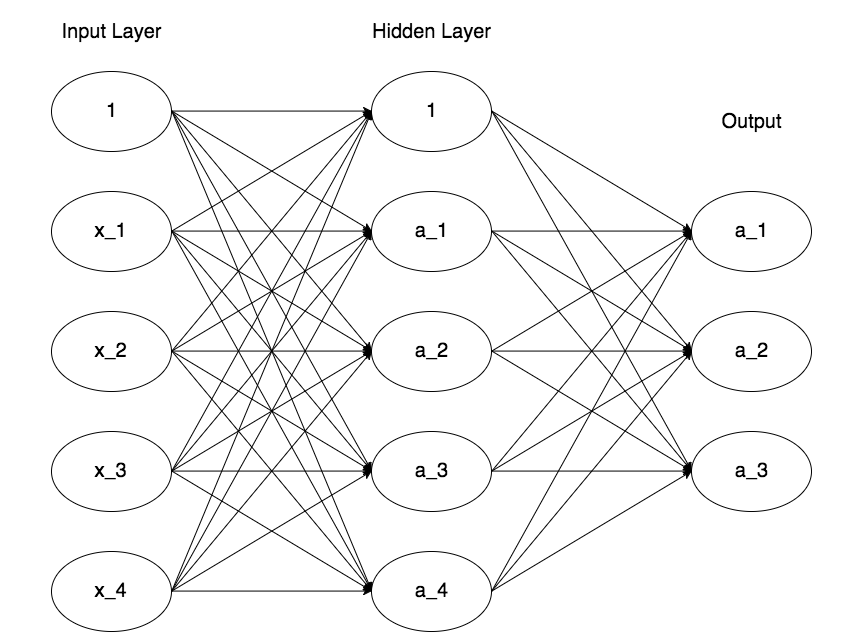
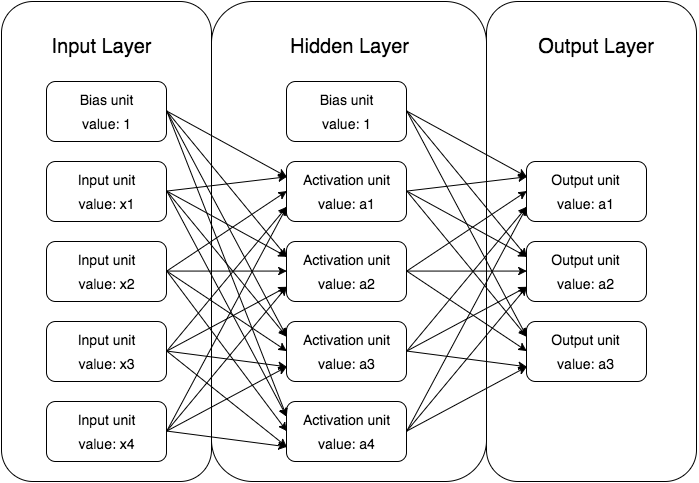
added intro, parameters, forward prop to neural network html page

diff --git a/neural-network.html b/neural-network.html
@@ -6,6 +6,7 @@
   <meta name="viewport" content="width=device-width, initial-scale=1" />
   <link rel="stylesheet" href="assets/css/main.css" />
   <link rel="stylesheet" href="https://cdnjs.cloudflare.com/ajax/libs/KaTeX/0.5.1/katex.min.css">
+  <link rel="stylesheet" href="assets/css/neural-network.css"/>
   <script src="https://cdnjs.cloudflare.com/ajax/libs/KaTeX/0.5.1/katex.min.js"></script>
   <!--[if lte IE 8]><script src="assets/js/ie/html5shiv.js"></script><![endif]-->
   <!--[if lte IE 9]><link rel="stylesheet" href="assets/css/ie9.css" /><![endif]-->
@@ -33,48 +34,201 @@
       <!-- Content -->
       <div class="wrapper">
         <div class="inner">
+          <section>
+            <h3 class="major">The Problem</h3>
+            <p>
+              The purpose of this machine learning algorithm is to classify flowers into three different
+              iris species based on the following inputs:
+            </p>
+            <ul>
+              <li>Sepal Length</li>
+              <li>Sepal Width</li>
+              <li>Petal Length</li>
+              <li>Petal Width</li>
+            </ul>
+            <p>
+              What's interesting about this project isn't the flower, rather it's
+              the fact that classifying the species would require a non-linear boundary
+              decision. Let's take a look at the following plot:
+            </p>
+            <div id="img-container">
+              <img height="400" src="./images/iris.png" />
+            </div>
+            <p>
+              Iris setosa is linearly separable from the other two species, but the decision
+              boundary between versicolor and virginica is non-linear. It means that I simply
+              cannot draw a straight line to separate versicolor from virginica. In this case,
+              I need a neural network to perform non-linear classification.
+            </p>
+            <p>
+              For more information about the data set, please visit
+              <a href="https://archive.ics.uci.edu/ml/datasets/Iris">
+                UC Irvine Machine Learning Repository
+              </a>
+              <div><b>Note:</b> please use Chrome for rendering LaTex</div>
+            </p>
+          </section>
 
           <section>
             <h3 class="major">The Network</h3>
             <p>
-              This page is still under construction. The mathematical formulations are
-              lacking descriptions.
-              <div>Note: if you don't see any mathematical equations, please use chrome</div>
+              First, we need a representation of classes (<i>setosa</i>, <i>versicolor</i>, <i>virginica</i>)
+            </p>
+            <h4>Class Definition</h4>
+            <p id="class-definition"></p>
+            These are the three vectors we will use to represent flower species. Vectors are
+            represented by arrays in programming languages
+            <ul>
+              <li><code>[1, 0, 0] => iris-setosa</code></li>
+              <li><code>[0, 1, 0] => iris-versicolor</code></li>
+              <li><code>[0, 0, 1] => iris-virginica</code></li>
+            </ul>
+            <h4>Neural Node: Neuron</h4>
+            <p>
+              A neural network is formed by connecting bunch of nodes together. Each
+              node is basically a numerical value in a vector or a matrix. We can represent
+              node as an object if object-oriented design is preferred. But for this project,
+              I went with functional programming paradigm for efficiency. Similarly, the strength
+              of connection is also represented by numerical values. I will explain what it means
+              to <i>connect</i>.
+            </p>
+            <h4>Diagram</h4>
+            <img height="400" src="./images/neural.png"/>
+            <p>
+              I am using three layers of neurons to perform machine learning.
+              <ul>
+                <li>Layer 1: the input layer takes in four values as input
+                  <ul>
+                    <li><code>x1: sepal-length</code></li>
+                    <li><code>x2: sepal-width</code></li>
+                    <li><code>x3: petal-length</code></li>
+                    <li><code>x4: petal-width</code></li>
+                  </ul>
+                </li>
+                <li>Layer 2 is known as the hidden layer, the values from input layer will
+                  be mapped to the hidden layer through a process called <b>forward propagation</b>.
+                </li>
+                <li>Layer 3 is the output layer. It has three nodes and numerical values of these
+                  nodes represent how probable is a set of input belongs to a specific class. In this
+                  case, <code>a1 => Prob(setosa)</code>, <code>a2 => Prob(versicolor)</code>, and
+                  <code>a3 => Prob(virginica)</code>. <b>Forward propagation</b> is responsible for
+                  mapping hidden layer to output layer.
+                </li>
+              </ul>
+
             </p>
             <!-- <p>This is <b>bold</b> and this is <strong>strong</strong>. This is <i>italic</i>
               and this is <em>emphasized</em>. This is <sup>superscript</sup> text and this is
               <sub>subscript</sub> text. This is <u>underlined</u> and this is code:
               <code>for (;;) { ... }</code>. Finally, <a href="#">this is a link</a>.
             </p> -->
-            <h4>Class Definition</h4>
-            <p id="class-definition"></p>
-          </section>
 
+          </section>
           <section>
             <h3 class="major">Parameters</h3>
             <h4>Theta Matrices</h4>
             <p id="theta"></p>
-            <h4>Diagram</h4>
-            <img height="400" src="./images/neural.png"/>
+            <p>
+              The theta(s)/parameters are also known as the weights of the conenction
+              between neurons. Theta<sup>(1)</sup>(s) are the weights that map layer 1 to layer 2.
+              Theta<sup>(2)</sup>(s) are the weights that map layer 2 to the final layer.
+            </p>
+            <p>
+              Theta<sup>(1)</sup> is a 4 by 5 matrix because we are mapping from 5 nodes
+              to 4 nodes. Linear algebra: (4x5) x (5x1) = (4x1).
+              Similarly, Theta<sup>(2)</sup> is 3 by 5 matrix because the final
+              output has 3 nodes.
+            </p>
             <h4>Activation Vectors</h4>
             <p id="a-vector"></p>
+            <p>
+              The activation vectors are really just the arrays that contain the
+              nodes. a<sup>(1)</sup> contains all the input values with 1 in front as the
+              bias unit. The bias unit is similar to a constant in linear regression. It is
+              there to provide offset correction. a<sup>(2)</sup> contains all the nodes
+              in the hidden layer while a<sup>(3)</sup> are the outputs or predictions.
+              <strong>
+                Be aware that a<sub>1</sub> in layer 2 is not the same as the a<sub>1</sub> in layer 3.
+              </strong>
+            </p>
           </section>
 
           <section>
             <h3 class="major">Forward Propagation</h3>
+            <p>
+              Imagine that the strength of connection between each node is represented
+              by the elements in the Theta<sup>(1)</sup> matrix. Then if we take a look at
+              the diagram, we can see that there are 20 outgoing edges from layer 1 to layer 2.
+              These 20 outgoing edges are in fact the thetas.
+            </p>
             <h4>From Layer 1 (Input) to Layer 2</h4>
+            <p>
+              Begin with defining the sigmoid function once again, this is important
+              for any classification task.
+            </p>
             <p id="sigmoid"></p>
+            <p>
+              We forward propagate by matrix multiplication. We say that each node
+              in layer 2 is computed by <code>g(z)</code> and that z is a linear combination of all the
+              nodes in previous layer.
+            </p>
             <p id="forward-prop-1"></p>
             <p id="forward-prop-2"></p>
             <h4>From Layer 2 to Layer 3 (Output)</h4>
+            <p>
+              We continue to propagate forward until we hit the last layer
+            </p>
             <p id="forward-prop-3"></p>
             <h4>Final Layer: Prediction</h4>
+            <p>
+              Once we reach the final layer and compute a's, we have our output a.k.a. prediction.
+              In other words, we begin with some input values, we propagate these values forward
+              through the neural network. The network influences the values by the strength of connections
+              between each node.
+            </p>
             <p id="forward-prop-4"></p>
           </section>
 
           <section>
+            <h3 class="major">Gradient Descent</h3>
+            <p>
+              So far we have only addressed how to produce output from a set of input. We
+              haven't talked about how are the parameters even defined in the first place.
+              Just as any machine learning algorithm, finding the correct values for the parameters
+              is the ultimate goal of learning. Just like human, we began with some randomly initialized
+              connections in our brain. As we grow older and wiser, we use our experience to re-wire
+              our own neural connection to achieve the goal of "learning."
+            </p>
+            <h4>Update the Theta matrices</h4>
+            <p>
+              We are trying to find the parameters that will lead to the best
+              fit of the data. The machine will try to minimize its prediction error with
+              the training set. Once again, we need to use gradient descent to "wire" the
+              machine's neural connection. That's how learning is done!
+            </p>
+            <p>
+              Let's define the cost function first. Cost function describes how "wrong"
+              our machine is. We will minimize the cost function through gradient descent.
+            </p>
+            <p id="cost-function"></p>
+            <p>
+              Since arrays are zero-indexed, we use 0 to denote layer 1
+            </p>
+            <p>
+              <code>l = 0..1</code>
+              <code>i = 0..num_of_rows</code>
+              <code>j = 0..num_of_cols</code>
+            </p>
+            <p id="gradient-1"></p>
+            <p>
+              Iterate until convergence, which means until the sum of all
+              terms in partial derivative matrices approaches zero.
+            </p>
+          </section>
+
+          <section>
             <h3 class="major">Back Propagation</h3>
-            <h4>From Layer 3 (Output) back t Layer 2</h4>
+            <h4>From Layer 3 (Output) back to Layer 2</h4>
             <p id="back-prop-1"></p>
             <p id="back-prop-2"></p>
             <p id="back-prop-3"></p>
@@ -97,23 +251,6 @@
             <p id="partial-4"></p>
           </section>
 
-          <section>
-            <h3 class="major">Gradient Descent</h3>
-            <h4>Update the Theta matrices</h4>
-            <p>
-              Since arrays are zero-indexed, we use 0 to denote layer 1
-            </p>
-            <p>
-              <code>l = 0..1</code>
-              <code>i = 0..num_of_rows</code>
-              <code>j = 0..num_of_cols</code>
-            </p>
-            <p id="gradient-1"></p>
-            <p>
-              Iterate until convergence, which means until the sum of all
-              terms in partial derivative matrices approaches zero.
-            </p>
-          </section>
 
           <!-- <section>
           <h3 class="major">Image</h3>

diff --git a/index.html b/index.html
@@ -7,7 +7,7 @@
   <script src="https://cdnjs.cloudflare.com/ajax/libs/KaTeX/0.5.1/katex.min.js"></script>
   <link rel="stylesheet" href="https://cdnjs.cloudflare.com/ajax/libs/KaTeX/0.6.0/katex.min.css">
   <link rel="stylesheet" href="assets/css/main.css"/>
-  <link rel="stylesheet" href="assets/css/addon.css"/>
+  <link rel="stylesheet" href="assets/css/index.css"/>
 </head>
 <body>
 

diff --git a/assets/js/neural-network.js b/assets/js/neural-network.js
@@ -173,3 +173,5 @@ let gradient1 = document.getElementById("gradient-1");
 katex.render(`\\Theta_{ij}^{(l)} = \\Theta_{ij}^{(l)} -
   \\alpha\\frac{\\partial}{\\partial\\Theta_{ij}^{(l)}}J`, gradient1
 );
+
+let costFunction = document.getElementById("cost-function");

diff --git a/assets/css/neural-network.css b/assets/css/neural-network.css
@@ -1,0 +1,5 @@
+#img-container {
+  display: flex;
+  justify-content: center;
+  margin-bottom: 1em;
+}
